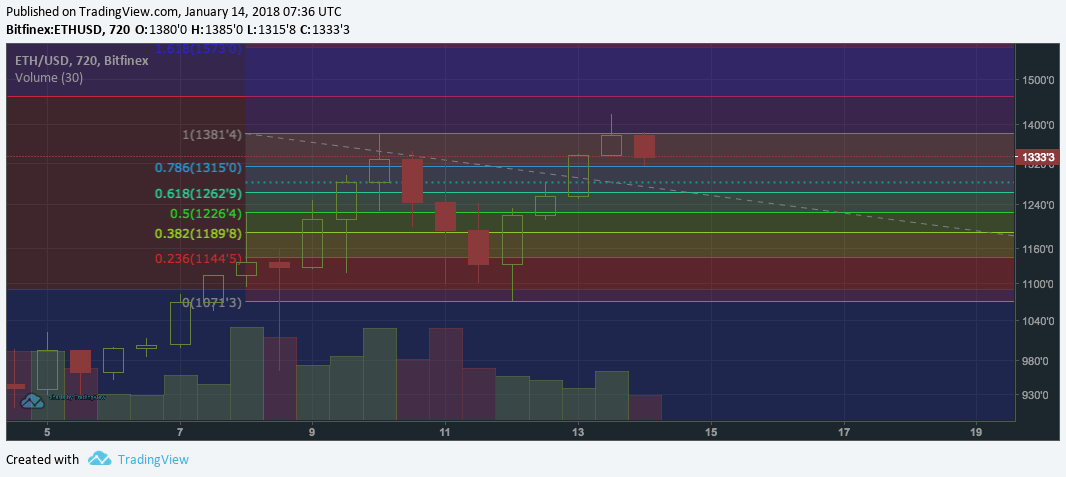
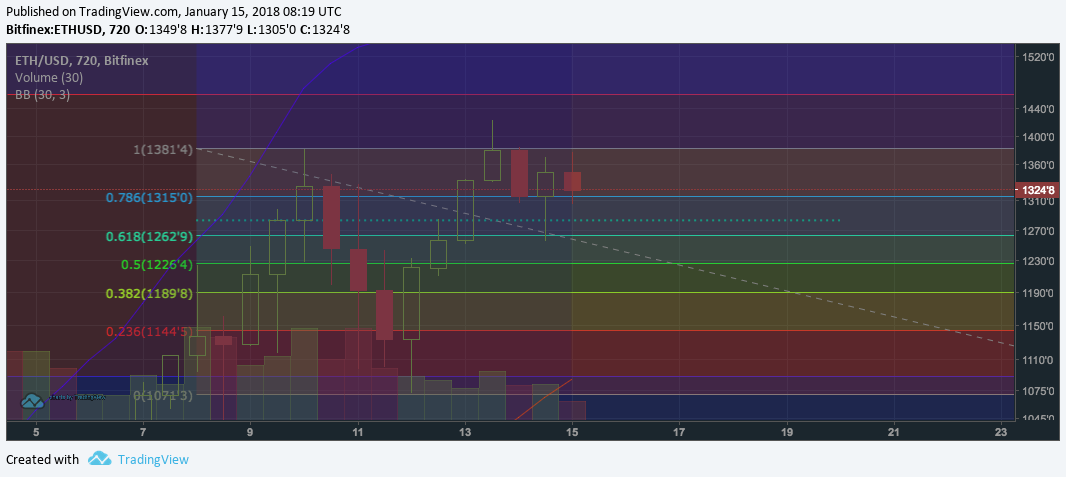
updates

diff --git a/_posts/2017-12-30-new-exchanges.md b/_posts/2017-12-30-new-exchanges.md
@@ -6,12 +6,11 @@ published: true
 guest: false
 
 date: 2018-01-04 00:12:00 +0100
-update: 2018-01-04 02:34:00 +0100
+update: 2018-01-15 09:34:00 +0100
 
 
 author: https://reddit.com/u/KarlVonBahnhof
 author_name: KarlVonBahnhof
-
 
 comments: false
 
@@ -23,7 +22,7 @@ german: false
 tickers: false
 
 title: "Update for 2018: Smaller cryptocurrency exchanges for trading"
-description: "Find new emerging cryptocurrency exchanges for your altcoin trading in 2018 (and avoid potential drama)."
+description: "Added Kucoin. Find new emerging cryptocurrency exchanges for your altcoin trading in 2018 (and avoid potential drama)."
 
 permalink: "/exchanges-2018"
 image:
@@ -35,10 +34,11 @@ categories:
 - basics
 - trading
 chart: []
-tags: ["crypto-trading", "cryptocurrency-exchanges", "altcoin-trading"]
+tags: [ "popular", "update", "crypto-trading", "cryptocurrency-exchanges", "altcoin-trading"]
 
 review:
 - {name: "Binance", rating: "GREAT", bestfor: "Trading small altcoins. They have regular additions of new coins (one a month) and users can vote which coins they want added.", signup: "Open, no verification necessary but they limit withdrawal to 1 BTC worth per day without verification.", comment: "Binance is where eager shitcoin traders and P&D groups migrate from Polo and Trex. If you are looking to trade a coin that is just about to be hyped up, changes are it's on Binance. There also sometimes happen to be opportunities for manual arb between Binance and some of the bigger crypto exchanges.", link: "https://www.binance.com/?ref=15980293", pic: "/features/2018/binance.png"}
+- {name: "Kucoin", rating: "GOOD", bestfor: "Trading small altcoins, receiving forked tokens. They have markets denominated in BTC, ETH, NEO, Tether and KucoinShares - their own token (similarly as on Binance).", signup: "Open, no verification necessary.", comment: "Just another new altcoin exchange that isn't overloaded yet. No scam accusations known, they have RaiBlocks and other new coins of the month. The CEO has background from Alibaba. Users who hold KCS get a bonus for holding that.", link: "https://www.kucoin.com/#/?r=7wJhh7", pic: "/features/2018/kucoin.jpg"}
 - {name: "Mercatox", rating: "GOOD", bestfor: "Trading small coins, moving fiat in and out via e-wallets (OkPay).", comment: "Mercatox is the next place to go if you aren't trading the coin of the day on Binance, or perhaps if you are up for some arb. The site has been cranky lately but they are working on it. They've signed up insane amount of new accounts over the past weeks.", signup: "Open. Big influx of new people currently. Verification is not necessary but withdrawals are limited to 0.5 BTC worth a day without.", link: "https://mercatox.com/?referrer=137469"}
 - {name: "BitFlip", rating: "OK", bestfor: "Trading emerging coins like RaiBlocks, fiat transfers in or out via e-wallets (Payeer, WebMoney, AdvCash) or directly to a VISA card (with expensive fees). Trading costs only 0.1% maker and 0.18% taker though, which is very nice.", comment: "Small exchange with oldschool charting that will freeze during high loads. It is a new place but it looks like something from 2013, and it has a trollbox. The company is based in the UK but the website and selection of fiat currencies looks very Russia-oriented. There have been some scam accusations on bitcointalk.", signup: "Open.", link: "https://bitflip.li/?ref=16sdsmzkzhec", pic: "/features/2018/bitflip.png"}
 - {name: "CoinFloor", rating: "GREAT", bestfor: "Buy&hold, buying and selling for GBP", comment: "Coinfloor is a London-based exchange that has currently the most liquid GBP markets for BTC, BCH, ETH, ETC, LTC and XRP. For bitcoin they also added EUR, PLN and USD markets and they provide a desktop GUI for advanced trading via their API. They aim to be secure and transparent with public audits, professional brokers and decent customer service, all of which is a nice change for once. The fee is 0.3% maker taker, which is a lot, but they also have an OTC desk. The exchange rep Mark is on Reddit as u/Mark_Coinfloor. Coinfloor is VC backed by the co-founder of TransferWise Taavet Hinrikus and Adam Knight, the former MD of Goldman Sachs.", signup: "Open. Needs ID verification. Currently they have taken down the list of country residencies they allow and redirect new users directly to signup form and ID verification. They are also open to corporate accounts.", pic: "/features/2018/coinfloor.png", link: "https://coinfloor.co.uk"}

diff --git a/_fibs/daily.md b/_fibs/daily.md
@@ -1,7 +1,7 @@
 ---
 published: true
 date: 2017-12-27 10:36:00 +0100
-update: 2018-01-14 08:40:00 +0100
+update: 2018-01-15 09:24:00 +0100
 
 layout: fibs
 title: "Fib Levels for Crypto Markets"
@@ -17,16 +17,15 @@ name: "daily/"
 image: ["/features/fibs.jpeg"]
 
 dollars:
-- { market: "BTCUSD", chart: "/fibs/btcusd.png", comment: "I think we can call it a failed bounce, all resistances get sold off." }
-- { market: "EOSUSD", chart: "/fibs/eosusd.png", comment: "There was this buy the rumor surge with the mysterious news (CEO of Bithumb joining block.one), usually that comes with a sell the news event afterwards." }
-- { market: "ETHUSD", chart: "/fibs/ethusd.png", comment: "Failing to blast through ATH resistance, it looks to form a range over the next days. We might see 12xx USD ETH, LT bullish." }
+- { market: "BTCUSD", chart: "/fibs/btcusd.png", comment: "I think we can call it a failed bounce, all resistances get sold off. BTCUSD keeps hovering in the lower parts of the range." }
+- { market: "ETHUSD", chart: "/fibs/ethusd.png", comment: "ETH went as low as 1255-ish and bounced but no new highs. Consolidation is not over." }
 ratios:
-- { market: "ETHBTC", chart: "/fibs/ethbtc.png", comment: "Looking at daily and weekly the ETH ratio is looking bullish but the psychological .1 resistance is strong. It looks like ranging for a bit, there might be a good long entry soon." }
+- { market: "ETHBTC", chart: "/fibs/ethbtc.png", comment: "The ratio keeps testing the .618 fib and eventually that resistance will probably be broken, but it might take a while." }
 ---
 
 
 > Relevant news for today
 
-* [The EOS news](https://www.reddit.com/r/eos/comments/7q4dsp/explaining_what_just_happened_you_need_to_read/): Among these is that block.one (the company behind EOS) has so far raised ~1.1 billion dollars from the token sale. Also, the CEO of Bithumb is joining block.one (good for Asian markets), and finally, that the first serious project on EOS, everipedia (a decentralized wikipedia by the co-founder of wikipedia), will be airdropping their tokens.
-* Ledger Nano S is working on [support for IOTA](https://codebuffet.co/2018/01/13/iota-on-the-ledger-nano-s-development-report-3/)
-* Bitcoin's LN is progressing, [here an explorer](https://explorer.acinq.co/#/)
+* [P&D groups on business insider](http://uk.businessinsider.com/ico-cryptocurrency-pump-and-dump-telegram-2017-11), "Regulators will slowly move towards a solution"
+* [Kraken's update didn't work out as well as planned](https://www.reddit.com/r/BitcoinMarkets/comments/7qcp24/major_unresolved_bug_with_kraken_please_upvote/) - the exchange downtime exceeded all expectations and there are still bugs left
+* [The ETH blockchain processes about as much USD value as other blockchains combined](https://www.reddit.com/r/ethtrader/comments/7qcksi/the_ethereum_blockchain_now_processes_about_as/)

diff --git a/coupon-bitfinex.md b/coupon-bitfinex.md
@@ -1,5 +1,5 @@
 ---
-published: false
+published: true
 layout: page
 title: 5egV78YtlC 10% Fee Discount Coupon Bitfinex
 permalink: /coupon-bitfinex-5egv78ytlc/
@@ -22,9 +22,11 @@ ________________________
 
 #### About Bitfinex
 
-Bitfinex is a Hong Kong based exchange infamous for being hacked in August 2016. Despite the hack it still has a wide user base thanks to its superior trading interface.
+Bitfinex is a BVI-based exchange infamous for being hacked in August 2016. Despite the hack it still has a wide user base thanks to its superior trading interface.
 
-You can buy or trade BTC, LTC, ETH, ETC, ZEC, XMR and since March 2017 also DASH. There are both USD markets and pairs or altcoin/bitcoin.
+Bitfinex offers a wide range of markets denominated in BTC, ETH, USD and EUR. They allow Tether withdrawals but the merkets on Bitfinex trade against USD, not Tether.
+
+Since January 1st 2018, there is a minimum equity requirement for Bitfinex - to activate new accounts for trading, users have to deposit at least 10k USD to the exchange.
 
 The exchange is available worldwide. There is limitation on margin trade for Americans - however the exchange is still operational from American IP address. New users on US IP just have to state they are not American residents.
 

diff --git a/coupon-kucoin.md b/coupon-kucoin.md
@@ -1,0 +1,38 @@
+---
+published: true
+layout: page
+title: "Kucoin referral code 7wJhh7 - 20% fee discount"
+permalink: /coupon-kucoin/
+tags:
+- hidden
+navi:
+ exclude: yes
+image:
+- "/features/2018/kucoin.jpg"
+image_alt:
+- "Kucoin coupon referral code 7wJhh7"
+---
+
+
+{% amp700 border {{page.image[0]}} {{page.image_alt[0]}} %}
+
+_Image: {{page.image_alt[0]}}_
+
+________________________
+
+#### About Kucoin
+
+Kucoin is a new altcoin exchange that trades cryptocurrency pairs - BTC, ETH, NEO, USDT and KCS (Kucoin Shares). The CEO of Kucoin has background in Alibaba.
+
+KCS is the exchange's own token Kucoin Shares. Users who hold it receive an additional bonus which can effectively lower their fees.
+
+Kucoin lists new cryptocurrencies regularly as they become popular (a new recent addition is RaiBlocks). They also typically grant forked tokens for bitcoin holders and participate in airdrops.
+
+**There is an 20% fee discount for users who sign up with a referral code.**
+
+`kucoin.com 7wJhh7`
+
+<a rel="nofollow" href="https://www.kucoin.com/#/?r=7wJhh7" class="button" target="_blank">Get 20% fee discount</a>
+
+
+{{ site.ads.aads728 }}
